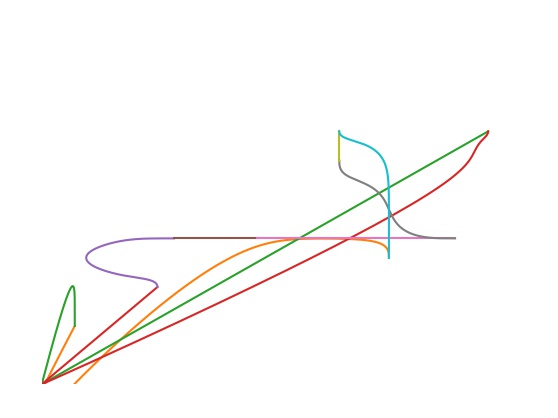
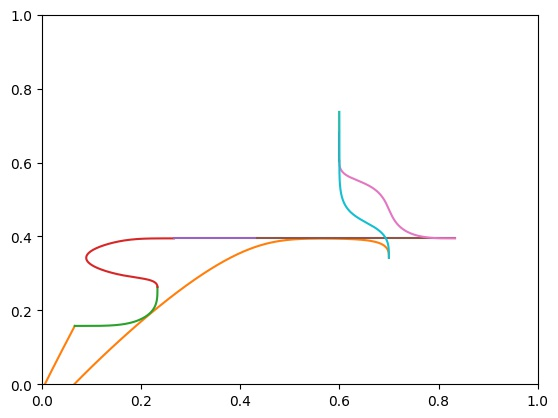
new path file

diff --git a/Path.py b/Path.py
@@ -2,11 +2,10 @@ import scipy.misc
 import numpy as np
 import networkx as nx
 import bezier
-from PIL import Image
 import matplotlib
 matplotlib.use('Agg')
 import matplotlib.pyplot as plt
-plt.ioff()
+from PIL import Image
 from resizeimage import resizeimage
 import random
 
@@ -54,6 +53,8 @@ def drawPath(map1, G, points):
         paths_draw.append(np.reshape(map1[:,:,0], (len(map1)*len(map1[1]))))
         paths_draw[i][path[i]] = 150
         paths_draw[i] = np.reshape(paths_draw[i], (len(map1),len(map1[1])))
+
+    plt.ioff()
     plt.figure(figsize=(10,10))
     nodes = np.asfortranarray([
         [0.0],
@@ -62,6 +63,7 @@ def drawPath(map1, G, points):
 
     curve = bezier.Curve(nodes, degree=2)
     ax =  curve.plot(num_pts=256)
+
     for i in range(0,len(path)):
 
         controlX= np.zeros(len(path[i]))
@@ -83,17 +85,15 @@ def drawPath(map1, G, points):
         #curves on same plot
         bezier.Curve(normalizedCurve, degree=10).plot(num_pts=256,ax=ax)
 
-
     plt.axis(xmin=0, ymin=0, xmax=1, ymax=1)
-    ax.set_axis_off()
+    #ax.set_axis_off()
     plt.savefig("sexyPath.jpg",frameon=True,bbox_inches='tight')
-
 
 def copyPath(source,target):
     mapResize = scipy.misc.imread(target,mode="RGB")
     bPath = scipy.misc.imread(source,mode="RGB")
     img = Image.fromarray(bPath)
-    # img = img.crop([32,12,365,228])
+    img = img.crop([50,21,535,383])
     img= img.resize((len(mapResize[0]), len(mapResize)), Image.ANTIALIAS)
     bPath = np.array(img)
     for i in range(0,len(bPath)):
@@ -179,7 +179,7 @@ def EmoDist(emotions):
         #entrance
         for i in artifacts:
             distance.append(1/nx.shortest_path_length(G,entrance[0]*len(map1[0])+entrance[1],i[0][0]*len(map1[0])+i[0][1]))
-        distance = np.array(distance)/( max(distance) + np.exp(-5))
+        distance = np.array(distance)/max(distance)
         distances.append(distance)
 
         for i in range(0,len(artifacts)):
@@ -189,7 +189,7 @@ def EmoDist(emotions):
                     distance.append(1/nx.shortest_path_length(G,artifacts[i][0][0]*len(map1[0])+artifacts[i][0][1],artifacts[j][0][0]*len(map1[0])+artifacts[j][0][1]))
                 else:
                     distance.append(-1)
-            distance = np.array(distance)/ ( max(distance) + np.exp(-5))
+            distance = np.array(distance)/max(distance)
             distances.append(distance)
 
         return distances
@@ -221,7 +221,6 @@ def EmoDist(emotions):
     current=-1
     for i in range(max_hops):
         nextHop = findNextHop(distances1[current+1],emo_score1,current,final_indices1)
-        print(nextHop)
         final_indices1.append(nextHop)
         current = nextHop
 
@@ -229,7 +228,6 @@ def EmoDist(emotions):
     current=-1
     for i in range(max_hops):
         nextHop = findNextHop(distances2[current+1],emo_score2,current,final_indices2)
-        print(nextHop)
         final_indices2.append(nextHop)
         current = nextHop
 
@@ -246,3 +244,4 @@ def EmoDist(emotions):
             pointsFinal2.append(artifacts2[i][0])
     pointsFinal2.append(entrance2)
     path1(map1,pointsFinal1)
+EmoDist([.0,.0,.0,.0,.0,.2,.0])
